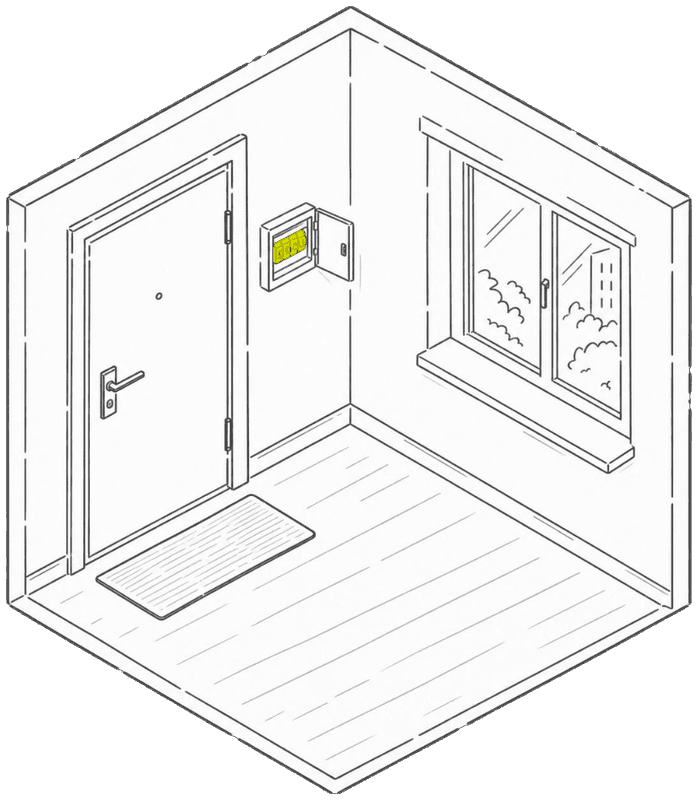
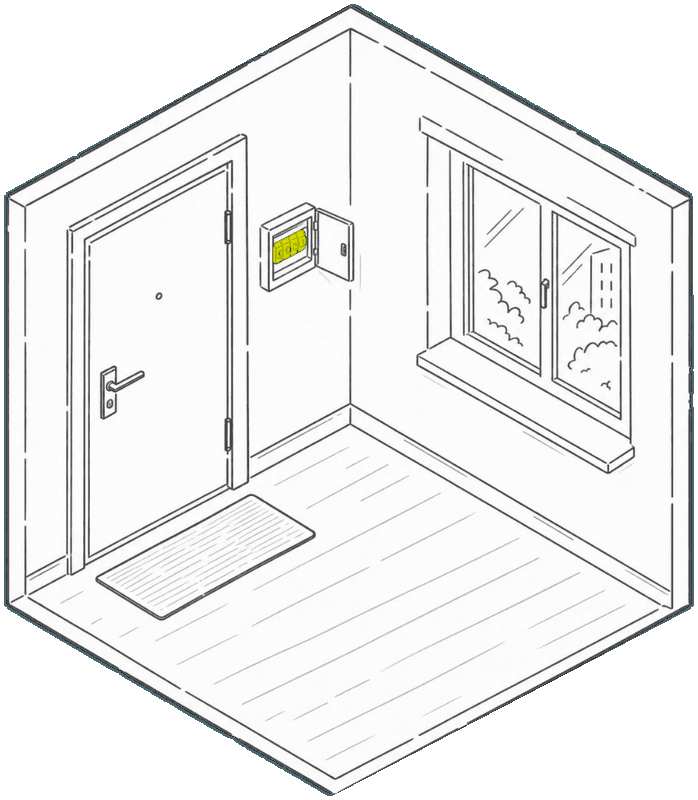
Turn the empty home tabs into a two-frame cartoon.
The requests illustration now sits on the same canvas as the panels room, so switching Щитки → Заявки opens the door and brings the master in without the rest of the apartment jumping.

diff --git a/src/components/screens/objects-screen.tsx b/src/components/screens/objects-screen.tsx
@@ -478,6 +478,85 @@ function ExpandableHomeCard({
   );
 }
 
+const EMPTY_ILLUSTRATION_CLASS =
+  "pointer-events-none h-[min(40dvh,280px)] w-auto max-w-full select-none object-contain lg:h-[min(48dvh,380px)]";
+
+type FramedEmpty = {
+  icon: ReactNode;
+  text: string;
+  framed?: boolean;
+  imageSrc?: string;
+  imageAlt?: string;
+};
+
+function EmptyCartoon({
+  page,
+  panelEmpty,
+  requestEmpty,
+  onPageChange,
+}: {
+  page: 0 | 1;
+  panelEmpty: FramedEmpty;
+  requestEmpty: FramedEmpty;
+  onPageChange: (next: 0 | 1) => void;
+}) {
+  return (
+    <motion.div
+      className="flex min-h-0 w-full flex-1 touch-pan-y flex-col items-center justify-center px-5 py-6 lg:px-10"
+      drag="x"
+      dragDirectionLock
+      dragElastic={0.12}
+      dragConstraints={{ left: 0, right: 0 }}
+      dragMomentum={false}
+      onDragEnd={(_, info: PanInfo) => {
+        const { offset, velocity } = info;
+        const absOffset = Math.abs(offset.x);
+        const committed =
+          absOffset >= SWIPE_DISTANCE ||
+          (absOffset >= SWIPE_MIN_OFFSET &&
+            Math.abs(velocity.x) >= SWIPE_VELOCITY);
+        if (!committed) return;
+        if (offset.x < 0 && page === 0) onPageChange(1);
+        if (offset.x > 0 && page === 1) onPageChange(0);
+      }}
+    >
+      <div className="flex w-full max-w-[320px] flex-col items-center lg:max-w-[420px]">
+        <div className="relative h-[min(40dvh,280px)] w-full lg:h-[min(48dvh,380px)]">
+          {/* eslint-disable-next-line @next/next/no-img-element */}
+          <img
+            src={panelEmpty.imageSrc}
+            alt={page === 0 ? (panelEmpty.imageAlt ?? "") : ""}
+            width={698}
+            height={800}
+            draggable={false}
+            aria-hidden={page !== 0}
+            className={cn(
+              "pointer-events-none absolute inset-0 m-auto h-full w-full select-none object-contain",
+              page === 0 ? "opacity-100" : "opacity-0",
+            )}
+          />
+          {/* eslint-disable-next-line @next/next/no-img-element */}
+          <img
+            src={requestEmpty.imageSrc}
+            alt={page === 1 ? (requestEmpty.imageAlt ?? "") : ""}
+            width={698}
+            height={800}
+            draggable={false}
+            aria-hidden={page !== 1}
+            className={cn(
+              "pointer-events-none absolute inset-0 m-auto h-full w-full select-none object-contain",
+              page === 1 ? "opacity-100" : "opacity-0",
+            )}
+          />
+        </div>
+        <p className="mt-4 min-h-[6.25rem] text-center text-[15px] leading-relaxed text-zinc-600">
+          {page === 0 ? panelEmpty.text : requestEmpty.text}
+        </p>
+      </div>
+    </motion.div>
+  );
+}
+
 function EmptyState({
   icon,
   text,
@@ -500,10 +579,10 @@ function EmptyState({
             <img
               src={imageSrc}
               alt={imageAlt ?? ""}
-              width={800}
+              width={698}
               height={800}
               draggable={false}
-              className="pointer-events-none h-[min(40dvh,280px)] w-auto max-w-full select-none object-contain lg:h-[min(48dvh,380px)]"
+              className={EMPTY_ILLUSTRATION_CLASS}
             />
           ) : null}
           <p className="mt-4 min-h-[6.25rem] text-center text-[15px] leading-relaxed text-zinc-600">
@@ -646,6 +725,8 @@ export function ObjectsScreen({
     imageSrc: "/empty-states/requests.png",
     imageAlt: "Мастер пришёл помочь с электрикой",
   };
+  const bothEmpty =
+    !loading && panels.length === 0 && requests.length === 0;
 
   const actionsItem = items.find((item) => item.id === actionsItemId);
   const renameItem = items.find((item) => item.id === renameItemId);
@@ -966,6 +1047,15 @@ export function ObjectsScreen({
         </p>
       )}
 
+      {bothEmpty ? (
+        <EmptyCartoon
+          page={page}
+          panelEmpty={panelEmpty}
+          requestEmpty={requestEmpty}
+          onPageChange={settlePage}
+        />
+      ) : (
+        <>
       <div className="hidden min-h-0 min-w-0 flex-1 overflow-y-auto overscroll-none px-10 pb-10 lg:flex lg:flex-col">
         {page === 0
           ? renderList(panels, panelEmpty)
@@ -1003,6 +1093,8 @@ export function ObjectsScreen({
           </div>
         </motion.div>
       </div>
+        </>
+      )}
 
       <div className="shrink-0 border-t border-black/[0.06] bg-[var(--bg)] px-5 pt-3 pb-[max(1.25rem,env(safe-area-inset-bottom))] lg:hidden">
         {page === 0 ? (
